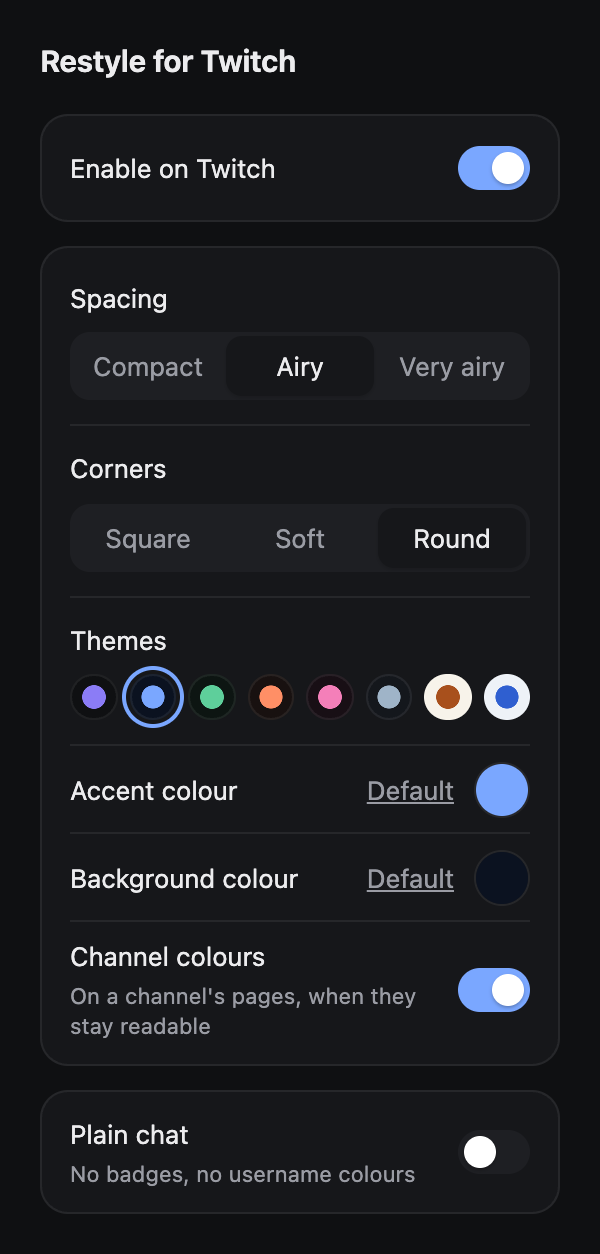
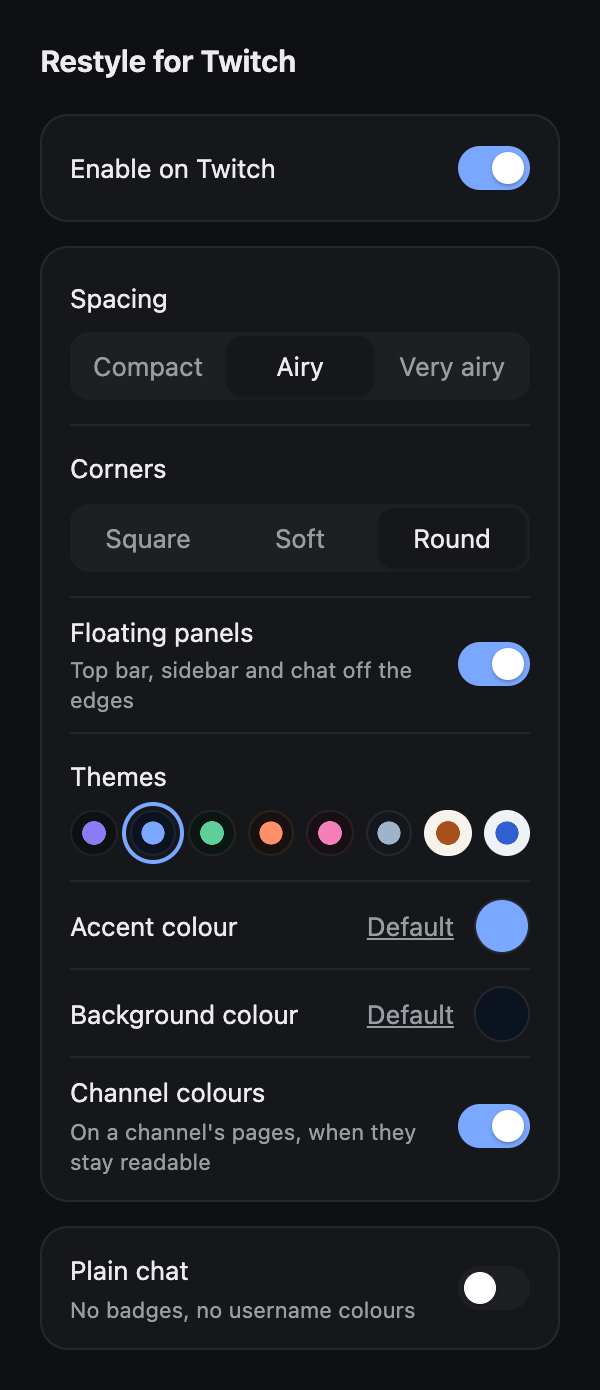
docs: document the floating panels option

diff --git a/docs/index.html b/docs/index.html
@@ -39,7 +39,7 @@
     "Team pages rebuilt around the player",
     "Muted chat that returns to full contrast on hover",
     "Flat menus and dialogs",
-    "Themes, accent and background colours, spacing and corner settings"
+    "Themes, accent and background colours, spacing, corner and floating panel settings"
   ]
 }
 </script>
@@ -319,6 +319,7 @@
         <tr><th scope="row">Enable on Twitch</th><td>Turns the whole restyle on or off.</td></tr>
         <tr><th scope="row">Spacing</th><td>Three densities: compact, airy, very airy.</td></tr>
         <tr><th scope="row">Corners</th><td>How rounded cards, panels, fields and buttons are: square, soft or round.</td></tr>
+        <tr><th scope="row">Floating panels</th><td>Takes the top bar, the sidebar and the chat off the window's edges, as rounded panels.</td></tr>
         <tr><th scope="row">Themes</th><td>Eight ready-made pairs of background and accent colours, dark and light.</td></tr>
         <tr><th scope="row">Accent colour</th><td>The colour of links, tags and highlights.</td></tr>
         <tr><th scope="row">Plain chat</th><td>Hides chat badges and shows every username in the text colour.</td></tr>
@@ -326,10 +327,14 @@
         <tr><th scope="row">Channel colours</th><td>On a channel's pages, takes the accent and a tinted background from the channel's own colour, adjusted until text stays readable.</td></tr>
       </table>
       <figure class="popup-shot">
-        <img src="popup.png" width="300" height="627" loading="lazy" alt="The settings popup, with the Midnight theme selected among eight colour swatches." />
+        <img src="popup.png" width="300" height="695" loading="lazy" alt="The settings popup, with the Midnight theme selected among eight colour swatches." />
         <figcaption>The settings popup, here with the Midnight theme.</figcaption>
       </figure>
       </div>
+      <figure class="shot themes">
+        <img src="floating.webp" width="1700" height="956" loading="lazy" alt="A live channel with Floating panels on: the top bar, the sidebar and the chat are rounded panels set apart from the window's edges and from the player.">
+        <figcaption>Floating panels: the top bar, the sidebar and the chat come off the window's edges.</figcaption>
+      </figure>
       <figure class="shot themes">
         <img src="themes.jpg" width="1280" height="800" loading="lazy" alt="The Browse page cut into diagonal bands, each in a different theme, from dark blue on the left to a light cream on the right.">
         <figcaption>One page, several themes: each band shows the same Browse page in a different one.</figcaption>
